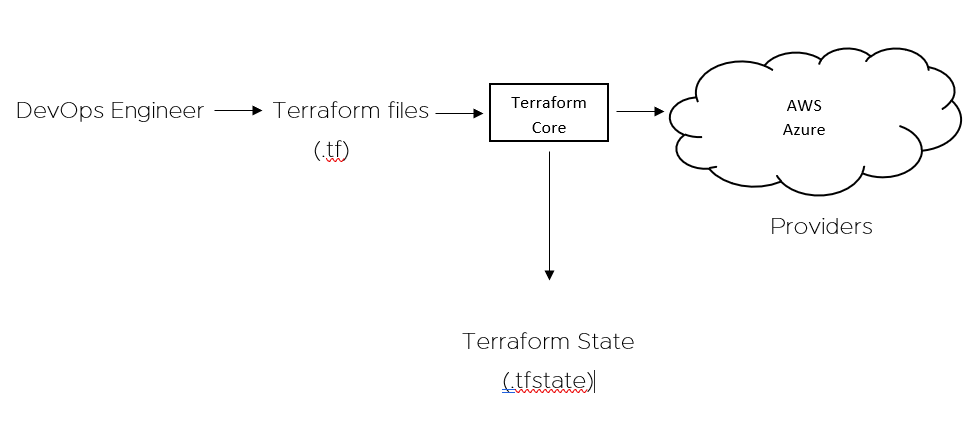
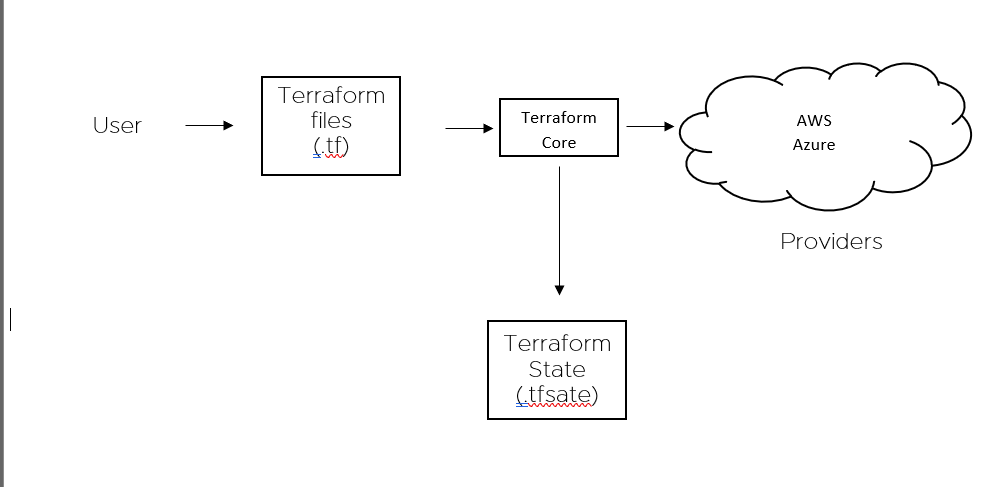
Add files via upload

diff --git a/README.md b/README.md
@@ -7,3 +7,13 @@ In this project, Terraform is used to automatically create a Linux EC2 instance 
 The project performs a few main tasks. It launches a Linux EC2 instance, sets up a security group for safe access, and uses or creates a key pair for SSH login. The whole process is automated, making it simple and time-saving.
 
 The project is made up of a few important files. The main file, called main.tf, contains the code to create the EC2 instance and security group. The terraform.lock.hcl file keeps track of the provider details used by Terraform, and the README.md file includes all the project information and usage instructions.
+
+DevOps Engineer -----> Terraform files -----> Terraform Core -----> AWS , Azure
+                            (.tf)                   |
+                                                    |
+                                                    |
+                                                    |
+                                                    |
+                                                    -
+                                             Terraform State
+                                               (.tfstate)
